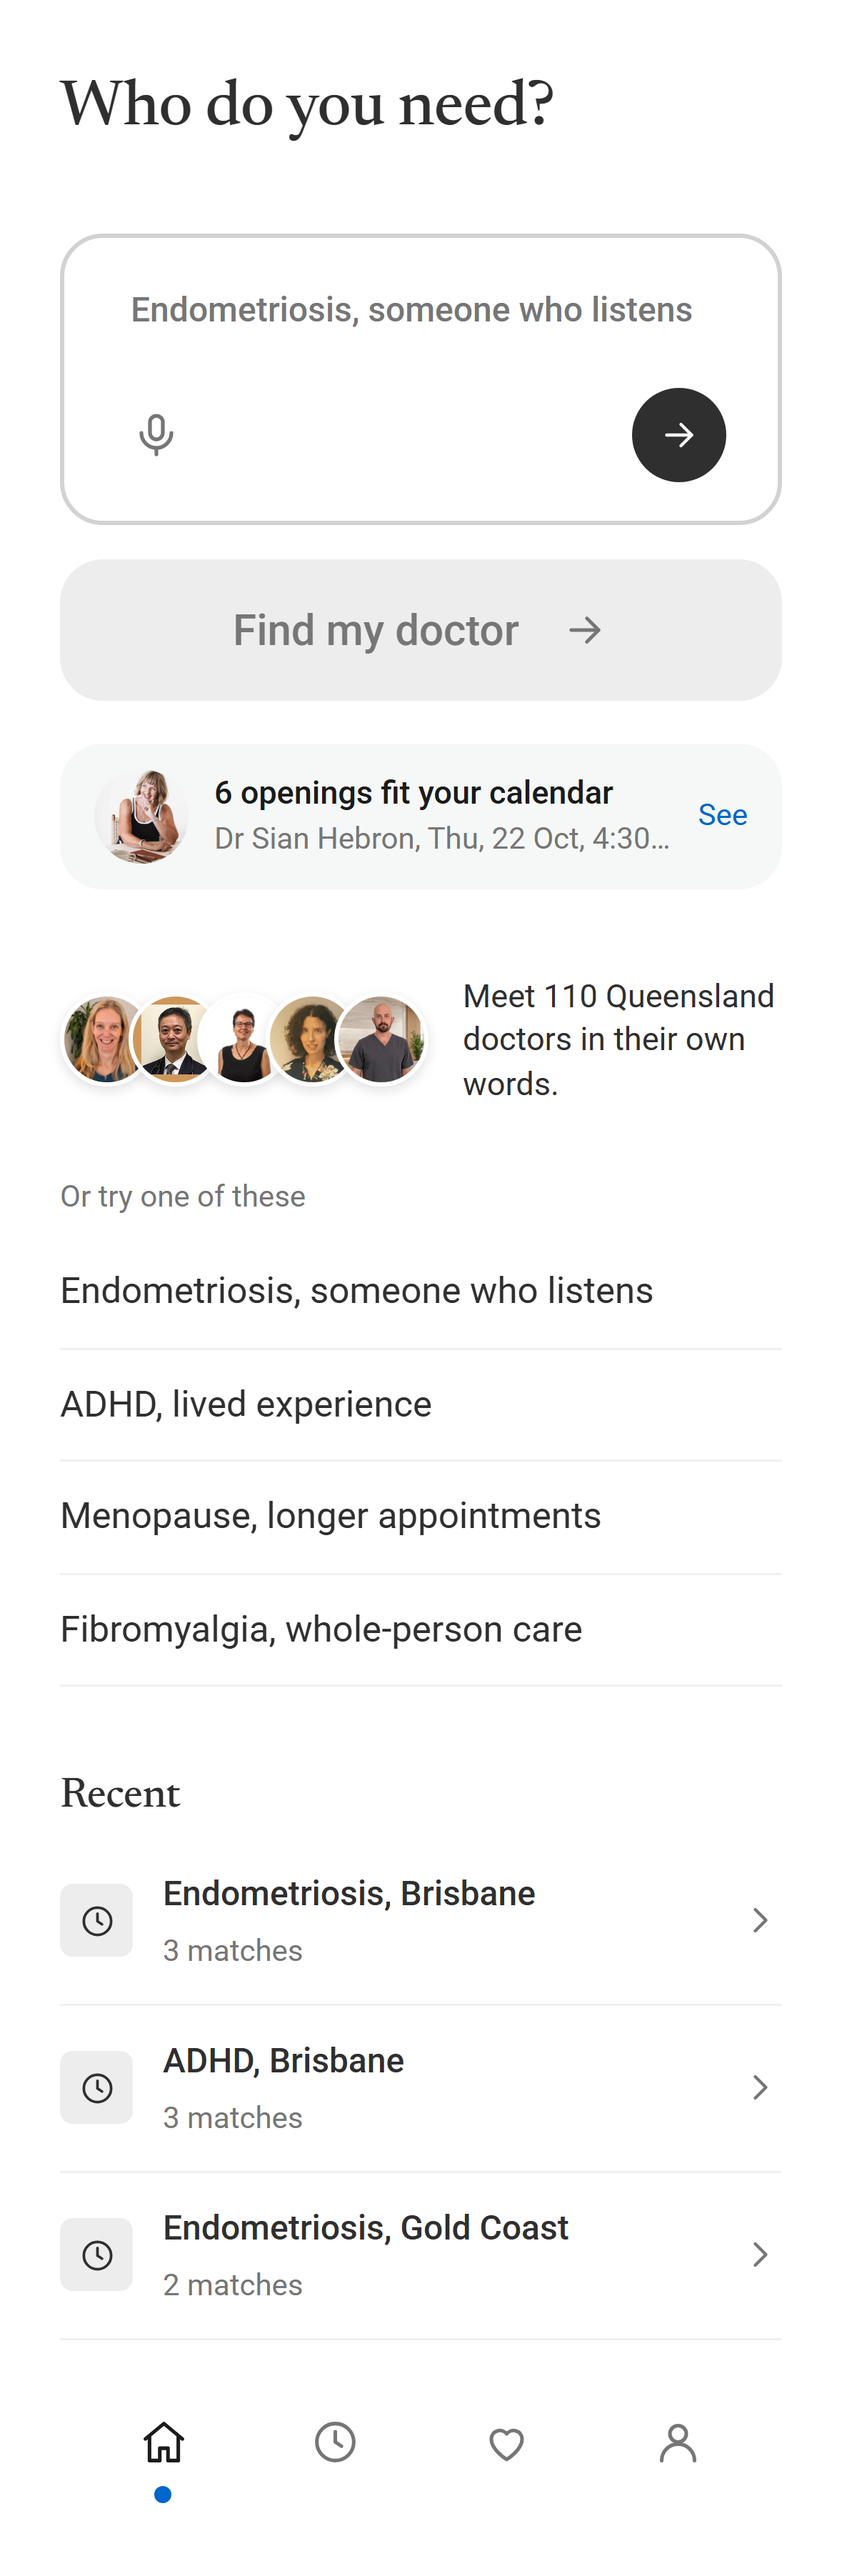
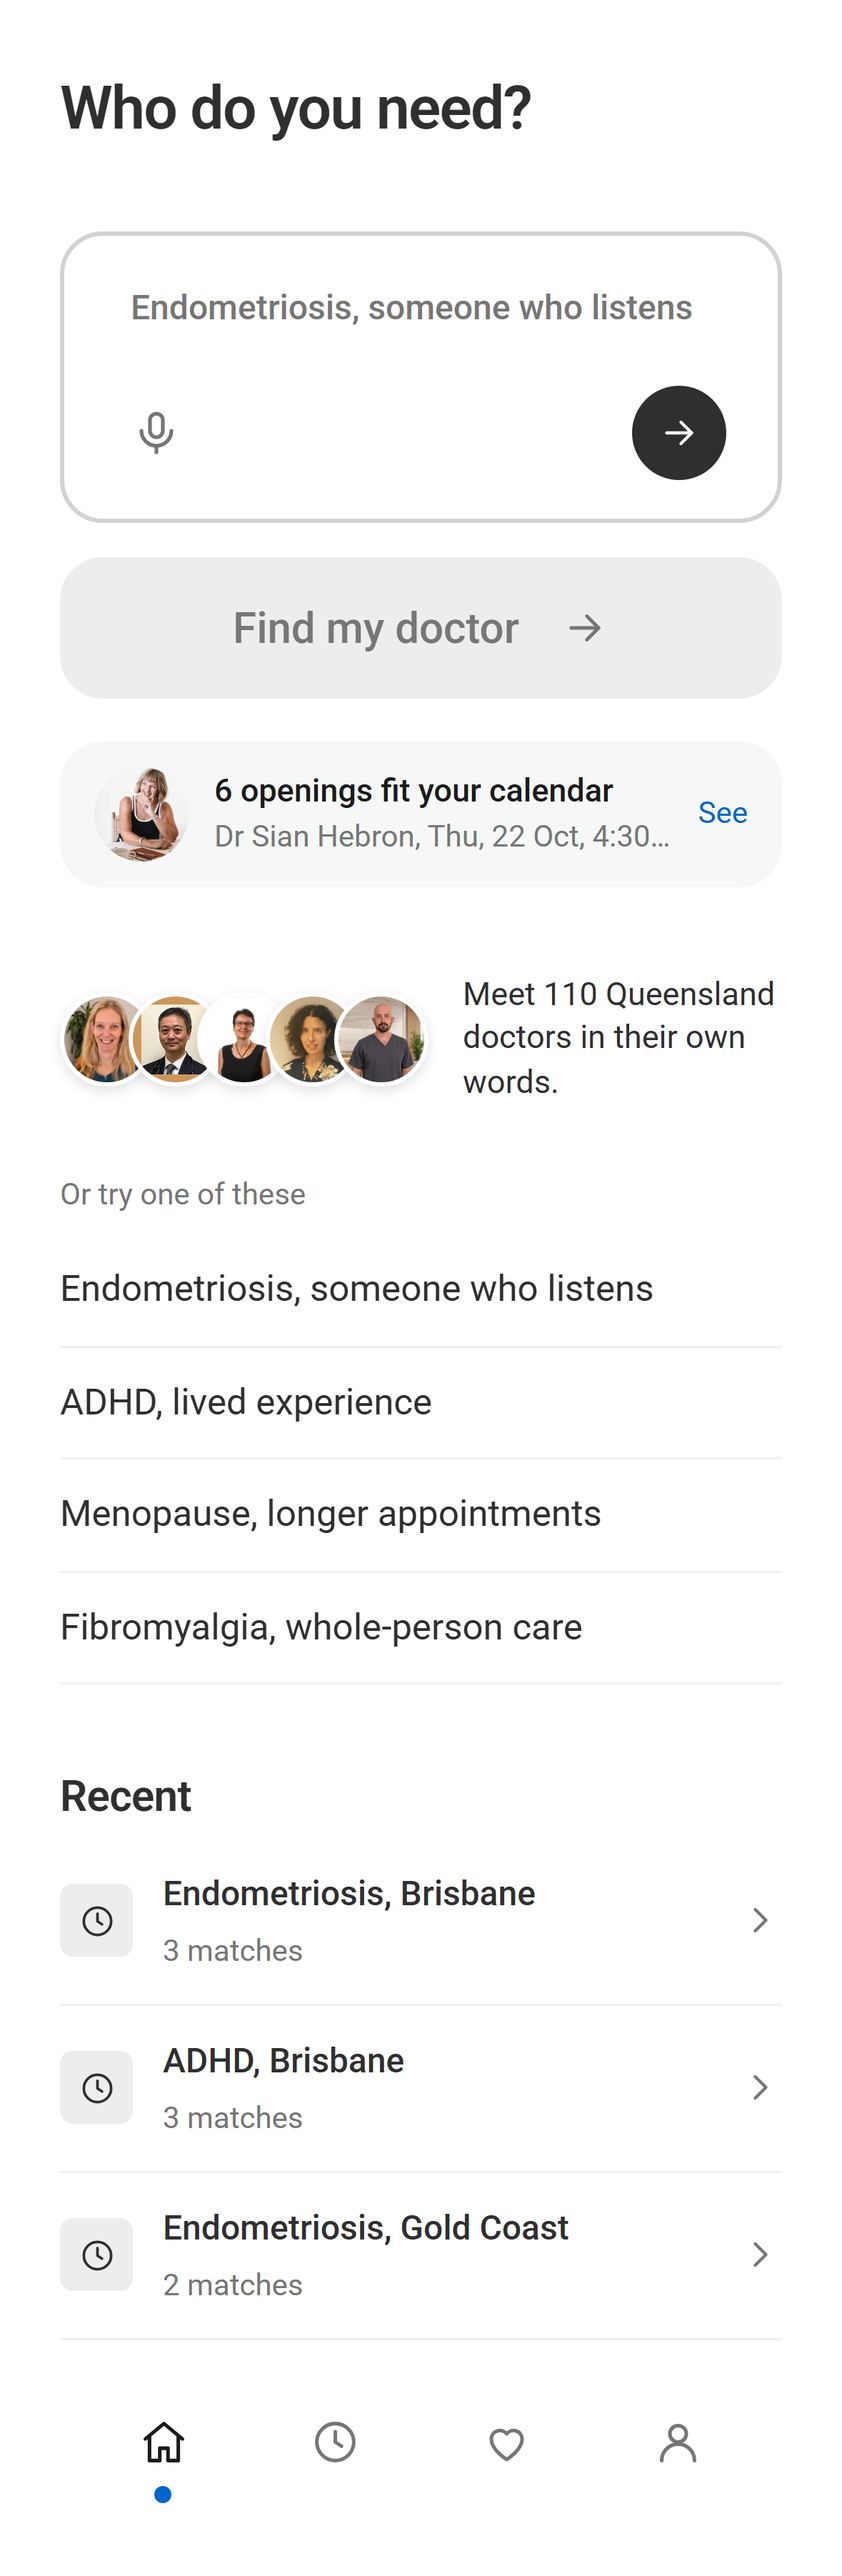
Home and guided questions in Zocdoc sans semibold; 6px answer controls

diff --git a/src/ui/screens/patient-a/Narrow.tsx b/src/ui/screens/patient-a/Narrow.tsx
@@ -208,13 +208,13 @@ export function Narrow() {
       {index < 0 ? (
         <div key="entry" className="rise mt-16 flex flex-col items-center text-center">
           <span className="search-orb" style={{ width: 72, height: 72 }} aria-hidden="true" />
-          <h1 className="display mt-10 text-[30px] leading-[1.15] text-ink">A few questions to narrow your search</h1>
+          <h1 className="mt-10 text-[26px] leading-[1.25] tracking-[-0.015em] text-ink">A few questions to narrow your search</h1>
           <p className="mt-3 text-[16px] leading-[1.5] text-grey">Your answers shape who we show you.</p>
-          {sentence ? <p className="mt-8 rounded-[18px] bg-surface-soft px-5 py-3 text-[15px] leading-[1.45] text-charcoal">“{sentence}”</p> : null}
+          {sentence ? <p className="mt-8 rounded-[6px] bg-surface-soft px-5 py-3 text-[15px] leading-[1.45] text-charcoal">“{sentence}”</p> : null}
         </div>
       ) : step ? (
         <div key={step.id} className="rise mt-10">
-          <h1 className="display text-[28px] leading-[1.2] text-ink">{step.ask}</h1>
+          <h1 className="text-[26px] leading-[1.25] tracking-[-0.015em] text-ink">{step.ask}</h1>
           {step.help ? <p className="mt-3 text-[15px] leading-[1.5] text-grey">{step.help}</p> : null}
           <div role="radiogroup" aria-label={step.ask} className="mt-7 flex flex-col gap-2.5">
             {options.map((o, i) => {
@@ -227,7 +227,7 @@ export function Narrow() {
                   aria-checked={on}
                   data-answer={i}
                   onClick={() => setPicked(o.id)}
-                  className={`rise press press-soft flex w-full items-center gap-4 rounded-[18px] border px-5 py-4 text-left ${on ? "border-[#2f5d3a] bg-[#f5f8f6]" : "border-hairline bg-white"}`}
+                  className={`rise press press-soft flex w-full items-center gap-4 rounded-[6px] border px-5 py-4 text-left ${on ? "border-[#2f5d3a] bg-[#f5f8f6]" : "border-hairline bg-white"}`}
                   style={{ "--i": i } as React.CSSProperties}
                 >
                   <span className="min-w-0 flex-1">
@@ -244,7 +244,7 @@ export function Narrow() {
         </div>
       ) : ctx ? (
         <div key="summary" className="rise mt-10">
-          <h1 className="display text-[28px] leading-[1.2] text-ink">What we’ll search for</h1>
+          <h1 className="text-[26px] leading-[1.25] tracking-[-0.015em] text-ink">What we’ll search for</h1>
           <p className="mt-3 text-[15px] text-grey">You can change this on the results page.</p>
           <dl className="mt-6 rounded-[22px] px-5 py-2" style={{ background: "#f5f8f6" }}>
             <div className="border-b border-[#e3ebe5] py-3">

diff --git a/src/ui/kit/index.tsx b/src/ui/kit/index.tsx
@@ -40,7 +40,7 @@ export function TopBar({ title, back = "/", right, rightHref, onRight }: { title
   return (
     <div className="flex h-11 items-center gap-4">
       <Circle href={back} label="Back"><ArrowLeft size={20} /></Circle>
-      {title ? <h1 className="display text-[20px] text-charcoal">{title}</h1> : null}
+      {title ? <h1 className="text-[20px] text-charcoal">{title}</h1> : null}
       <span className="ml-auto">
         {right && rightHref ? <Link href={rightHref} className="press-dim text-[14px] font-medium text-accent">{right}</Link> : null}
         {right && !rightHref ? <button type="button" onClick={onRight} className="press-dim text-[14px] font-medium text-accent">{right}</button> : null}
@@ -61,7 +61,7 @@ export function Gap({ h }: { h: 8 | 12 | 16 | 24 | 32 | 34 | 38 | 40 | 48 }) {
 export function Title({ children, sub }: { children: ReactNode; sub?: ReactNode }) {
   return (
     <div className="flex flex-col gap-2">
-      <h1 className="display text-[30px] leading-[1.15] text-charcoal">{children}</h1>
+      <h1 className="text-[28px] leading-[1.2] tracking-[-0.015em] text-charcoal">{children}</h1>
       {sub ? <p className="font-inter text-[20px] font-medium text-grey">{sub}</p> : null}
     </div>
   );
@@ -70,7 +70,7 @@ export function Title({ children, sub }: { children: ReactNode; sub?: ReactNode 
 export function SectionTitle({ children, right, rightHref }: { children: ReactNode; right?: string; rightHref?: string }) {
   return (
     <div className="flex items-center justify-between">
-      <h2 className="display text-[20px] text-charcoal">{children}</h2>
+      <h2 className="text-[20px] text-charcoal">{children}</h2>
       {right && rightHref ? <Link href={rightHref} className="press-dim text-[14px] font-medium text-accent">{right}</Link> : null}
     </div>
   );
@@ -361,7 +361,7 @@ export function Sheet({ open, onClose, title, children }: { open: boolean; onClo
     <div className="frame-fixed inset-y-0 z-50" role="dialog" aria-modal="true" aria-label={title}>
       <button type="button" aria-label="Close" onClick={onClose} className="sheet-scrim absolute inset-0 bg-ink/40" />
       <div className="sheet-panel frame-pad absolute inset-x-0 bottom-0 flex max-h-[92dvh] flex-col gap-4 overflow-y-auto rounded-t-[25.5px] bg-white pb-[34px] pt-6">
-        <h2 className="display text-[20px] text-charcoal">{title}</h2>
+        <h2 className="text-[20px] text-charcoal">{title}</h2>
         {children}
       </div>
     </div>
